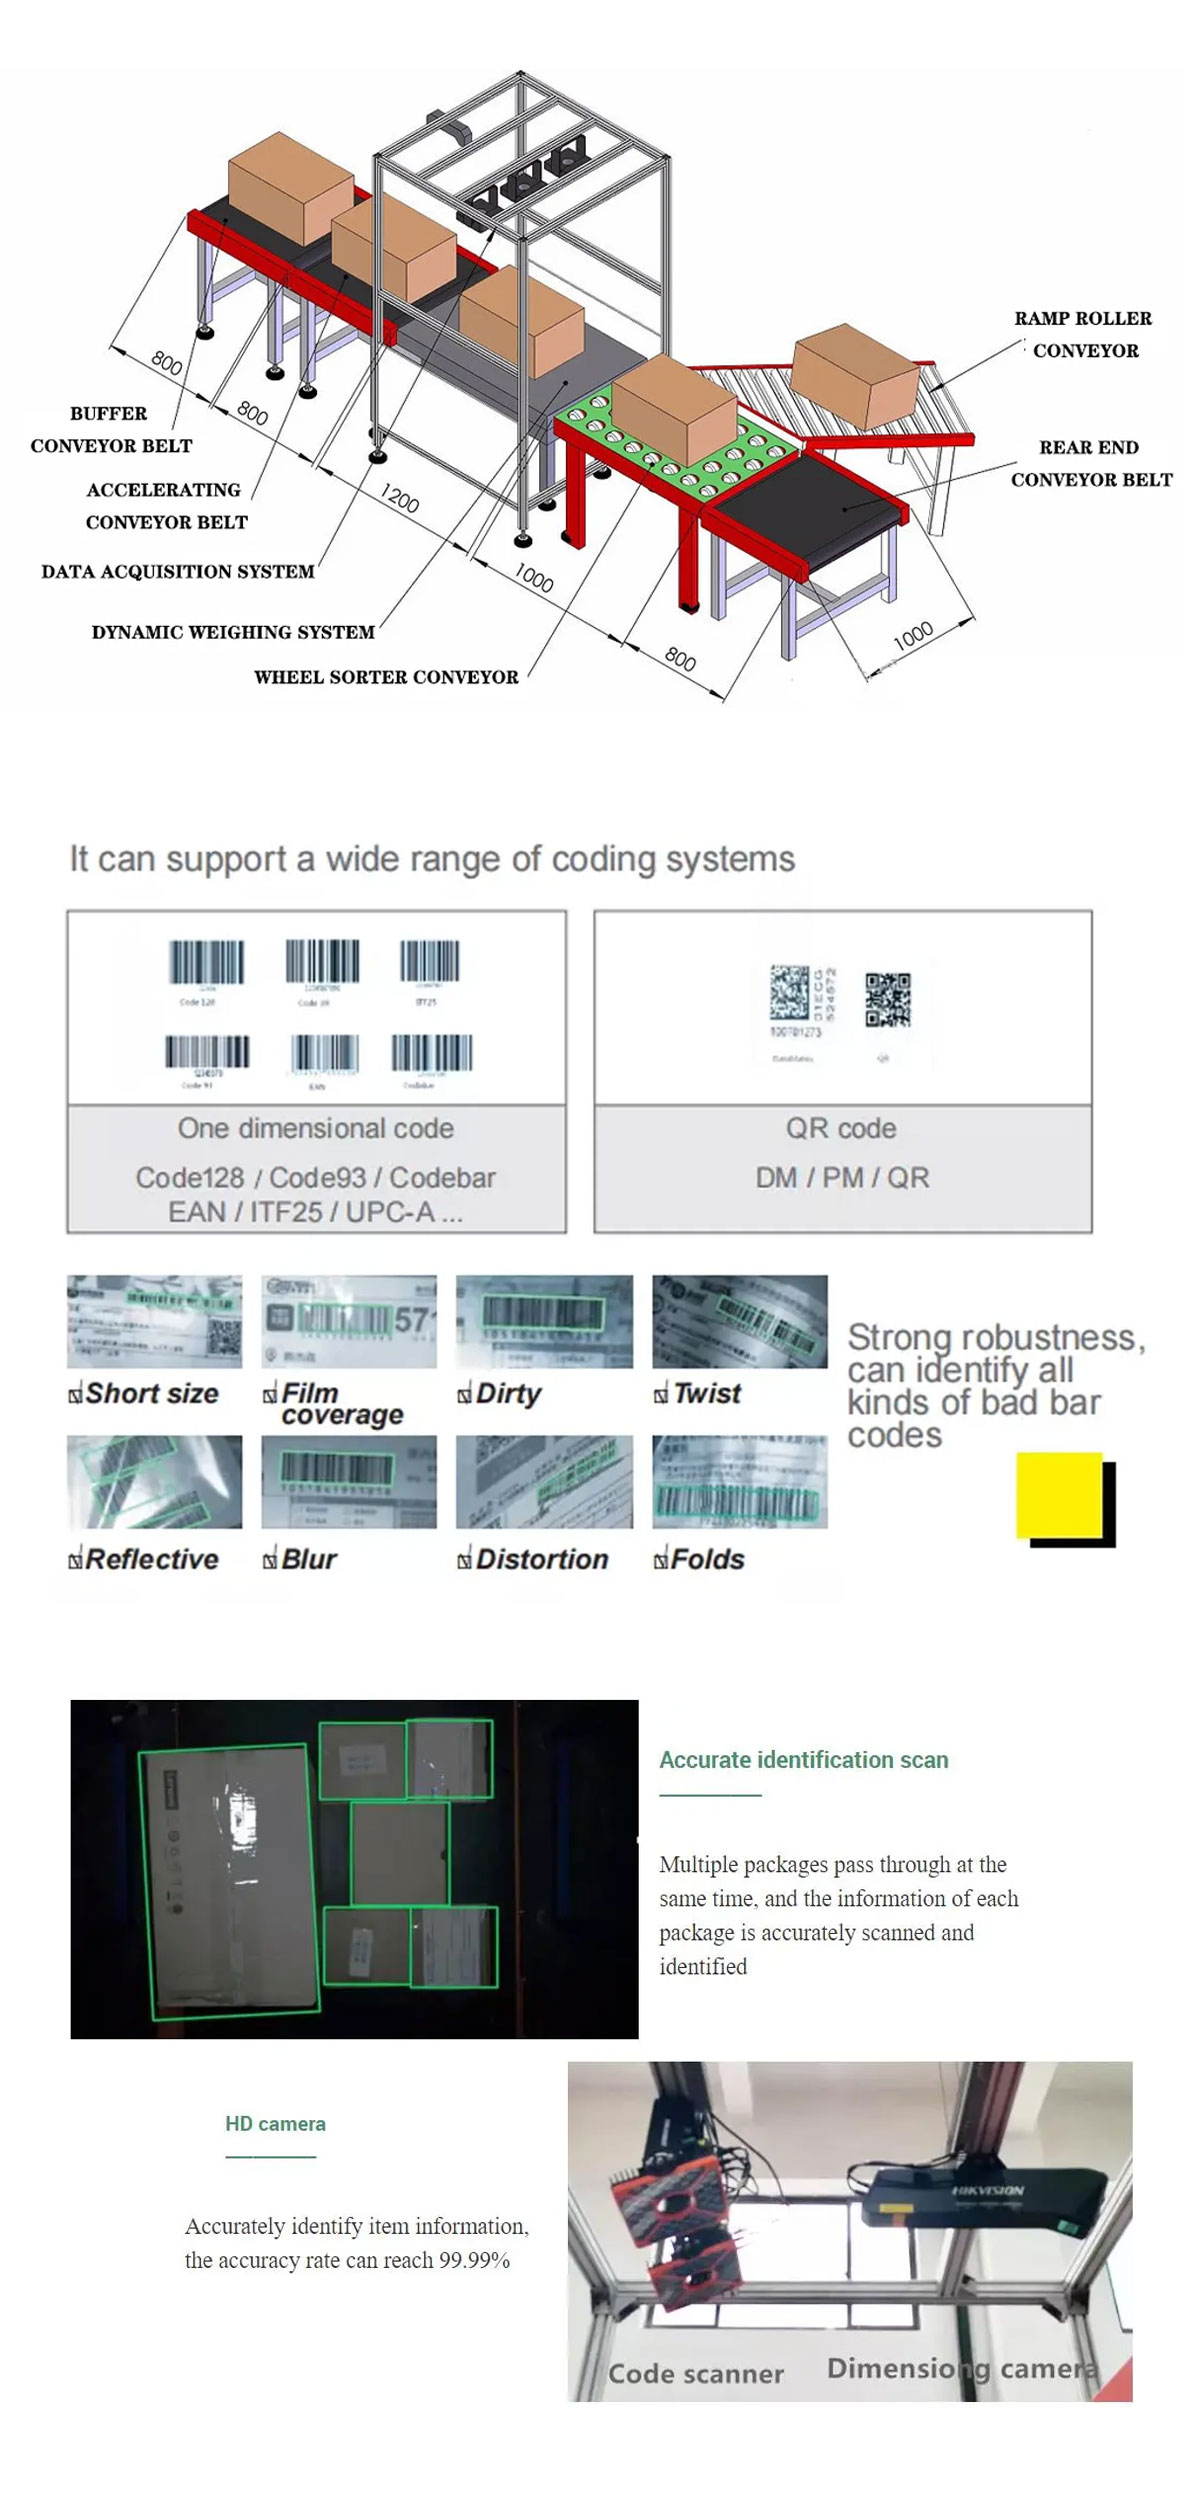
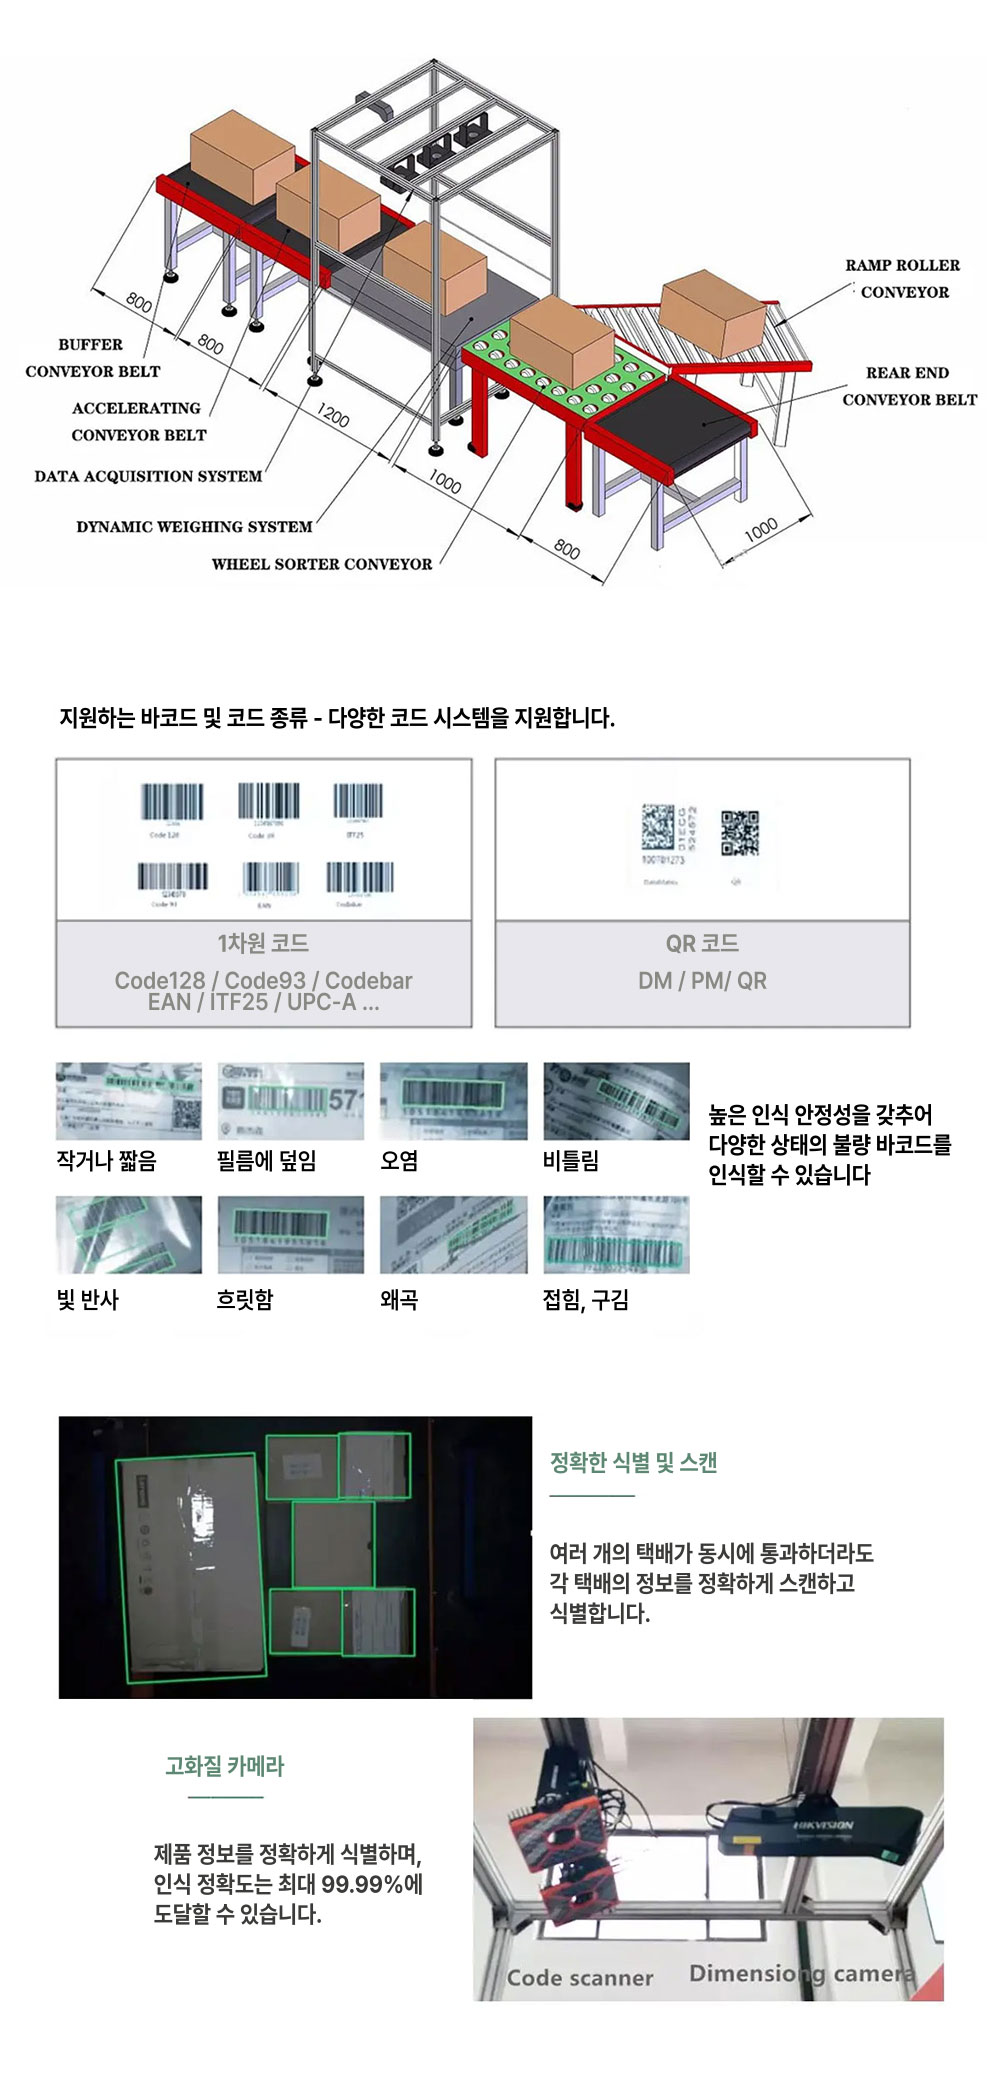
사업소개 > 공통요소 > 제품 상세 이미지 : 너비 max 1000xp로 변경 및 너비에 맞춘 이미지 가공

diff --git a/src/styles/pages/business/_business.scss b/src/styles/pages/business/_business.scss
@@ -492,7 +492,7 @@
       margin: 4rem auto 0;
 
       &.detail {
-        max-width: 860px;
+        max-width: 1000px;
       }
 
       @include respondTo(tablet-l) {
